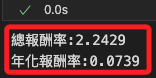
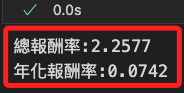
Commit on 2024-12-10 20:28:41

diff --git a/D73_網格交易測試/15_調整回測參數.md b/D73_網格交易測試/15_調整回測參數.md
@@ -174,7 +174,15 @@ _開啟新的筆記本_
 
 <br>
 
-4. 反應除權與除息。
+4. 可詳細查看，是否除了警告校正外，並無其他錯誤，最末行會出現 `回測完成`。
+
+    ![](images/img_80.png)
+
+<br>
+
+## 除權息
+
+1. 反應除權與除息以實質化報酬率。
 
     ```python
     # 還原除權息
@@ -187,7 +195,7 @@ _開啟新的筆記本_
 
 <br>
 
-5. 報酬率計算。
+2. 報酬率計算。
 
     ```python
     position_table = trade_position.position_table
